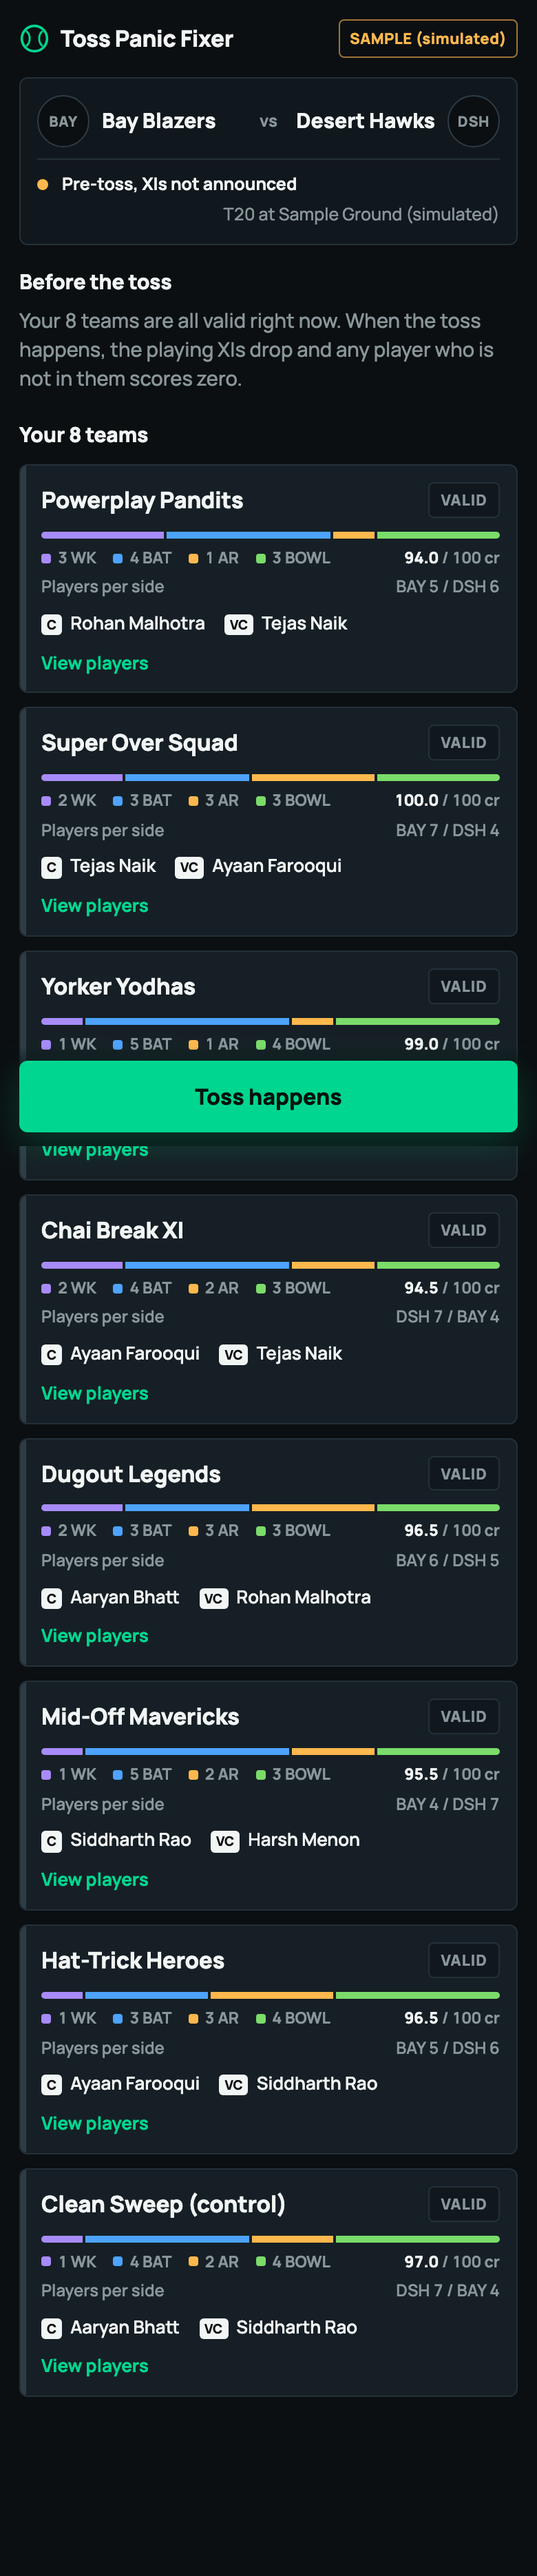
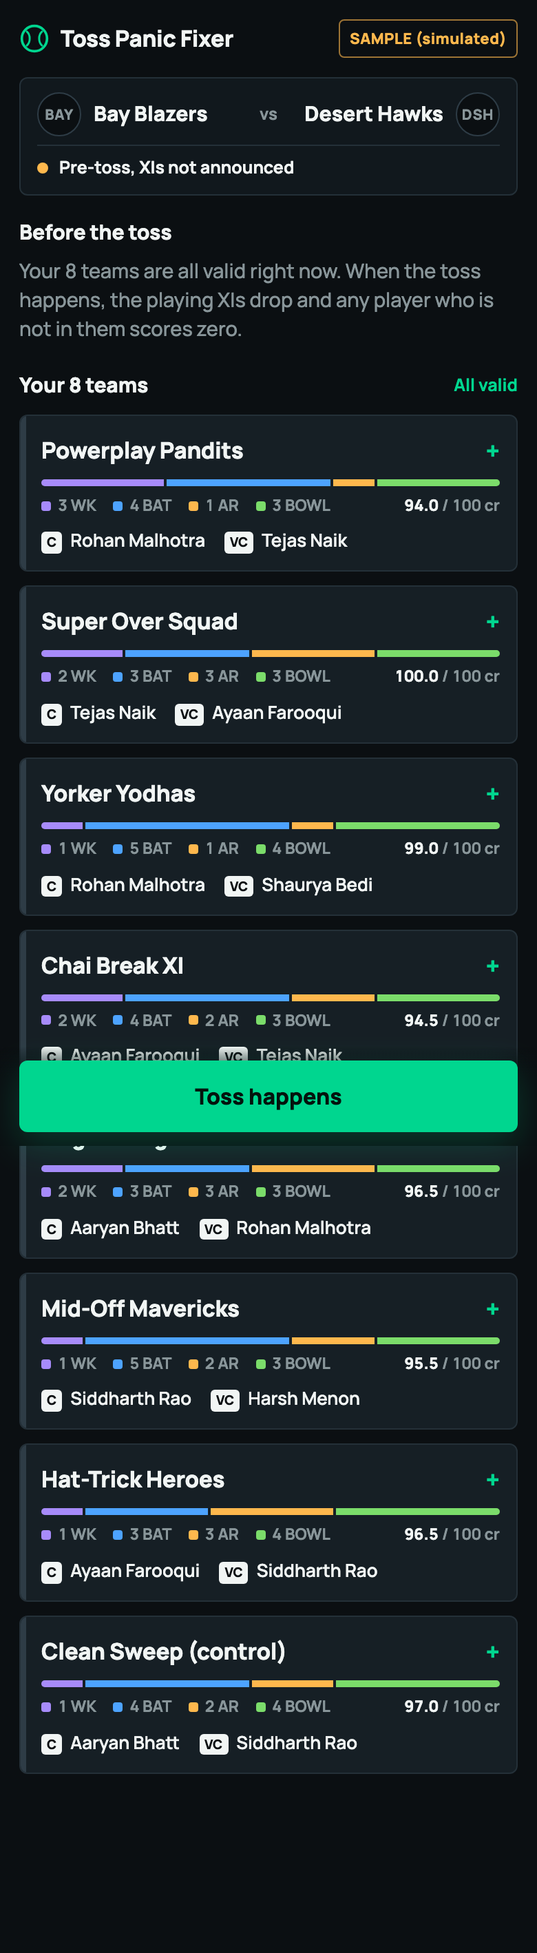
UI second pass: results-first layout, compact broken and fixed cards, collapsed XIs and Ask on phones, quieter colour use, sentence-case badges

diff --git a/src/style.css b/src/style.css
@@ -26,14 +26,14 @@ button:focus-visible, summary:focus-visible, input:focus-visible { outline: 2px 
 .sample { font-weight: 800; font-size: 11px; letter-spacing: .02em; color: var(--warn); border: 1px solid color-mix(in srgb, var(--warn) 60%, transparent); border-radius: 4px; padding: 5px 7px; white-space: nowrap; }
 .sample.sm { font-size: 10px; padding: 3px 5px; }
 
-.match { display: grid; grid-template-columns: 1fr auto 1fr; align-items: center; gap: 8px 10px; background: var(--bg2); border: 1px solid var(--line); border-radius: var(--r); padding: 12px; }
+.match { display: grid; grid-template-columns: 1fr auto 1fr; align-items: center; gap: 6px 10px; background: var(--bg2); border: 1px solid var(--line); border-radius: var(--r); padding: 10px 12px; }
 .tm { display: flex; align-items: center; gap: 9px; min-width: 0; }
 .tm.r { justify-content: flex-end; text-align: right; }
 .tm b { font-size: 15px; font-weight: 800; line-height: 1.15; }
-.crest { flex: none; display: grid; place-items: center; width: 38px; height: 38px; border-radius: 50%; border: 1.5px solid var(--line2); font: 800 10.5px var(--font); font-style: normal; letter-spacing: .03em; color: var(--muted); background: var(--bg); }
+.crest { flex: none; display: grid; place-items: center; width: 32px; height: 32px; border-radius: 50%; border: 1.5px solid var(--line2); font: 800 10.5px var(--font); font-style: normal; letter-spacing: .03em; color: var(--muted); background: var(--bg); }
 .vs { color: var(--muted); font-weight: 700; font-size: 12px; }
-.meta { grid-column: 1 / -1; display: flex; flex-wrap: wrap; align-items: center; gap: 4px 10px; border-top: 1px solid var(--line); padding-top: 9px; font-size: 12.5px; font-weight: 700; }
-.meta .venue { margin-left: auto; color: var(--muted); font-weight: 500; }
+.meta { grid-column: 1 / -1; display: flex; align-items: center; gap: 8px; border-top: 1px solid var(--line); padding-top: 7px; font-size: 12.5px; font-weight: 700; }
+.meta .venue { display: none; color: var(--muted); font-weight: 500; }
 .stat-dot { width: 8px; height: 8px; border-radius: 50%; background: var(--warn); }
 .stat-dot.toss { background: var(--accent); } .stat-dot.played { background: var(--muted); }
 
@@ -57,11 +57,11 @@ aside > section, aside > .bar { margin-bottom: 12px; }
 .impact .cell:last-child { border-right: 0; }
 .impact .cell b { display: block; font-size: 26px; font-weight: 800; line-height: 1.05; }
 .impact .cell span { font-size: 11.5px; color: var(--muted); font-weight: 600; line-height: 1.2; display: block; margin-top: 2px; }
-.impact .warn { color: var(--warn); } .impact .bad { color: var(--danger); }
+.impact .cell b { color: var(--ink); }
 
 /* toss news + XI */
-.news { margin-top: 12px; background: var(--bg2); border: 1px solid var(--line); border-radius: var(--r); overflow: hidden; }
-.lower { padding: 11px 14px; background: var(--accent); color: #04130d; font-weight: 600; }
+.news { margin-top: 10px; background: var(--bg2); border: 1px solid var(--line); border-radius: var(--r); overflow: hidden; }
+.lower { padding: 12px 14px; border-left: 4px solid var(--accent); font-weight: 600; font-size: 15px; }
 .lower b { font-weight: 800; }
 .notes { padding: 8px 14px 2px; }
 .notes li { position: relative; padding: 3px 0 3px 12px; color: var(--warn); font-size: 13.5px; font-weight: 600; }
@@ -94,7 +94,7 @@ details[open] > summary::after { content: "−"; }
 .pl .sub { grid-column: 2; display: flex; align-items: center; gap: 5px; margin-top: 1px; }
 .pl .cr { color: var(--muted); font-weight: 700; font-size: 11.5px; margin-right: auto; }
 .pl .cv { flex: none; font-size: 9px; font-weight: 800; line-height: 1; padding: 3px 4px; border-radius: 3px; background: var(--ink); color: var(--bg); }
-.pl .tg { flex: none; text-decoration: none; font-size: 9px; font-weight: 800; letter-spacing: .04em; text-transform: uppercase; padding: 2px 4px; border-radius: 3px; }
+.pl .tg { flex: none; text-decoration: none; font-size: 10.5px; font-weight: 800; padding: 1px 5px; border-radius: 3px; }
 .tg.out { background: var(--danger); color: #1a0405; }
 .tg.in { background: var(--accent); color: #04130d; }
 .pl.out { background: color-mix(in srgb, var(--danger) 9%, var(--bg2)); border-color: color-mix(in srgb, var(--danger) 45%, var(--line)); border-left-color: var(--danger); }
@@ -109,7 +109,7 @@ details[open] > summary::after { content: "−"; }
 .team.broken::before { background: var(--danger); } .team.fine::before, .team.fixed::before { background: var(--accent); }
 .team > header { display: flex; align-items: center; gap: 6px; flex-wrap: wrap; }
 .team h3 { font-size: 16.5px; font-weight: 800; letter-spacing: -.01em; margin-right: auto; }
-.st { font-size: 11px; font-weight: 800; letter-spacing: .05em; text-transform: uppercase; padding: 4px 8px; border-radius: 4px; }
+.st { font-size: 12px; font-weight: 800; padding: 3px 8px; border-radius: 4px; }
 .st.ok { background: var(--accent); color: #04130d; }
 .st.bad { background: var(--danger); color: #1a0405; }
 .st.warn { background: var(--warn); color: #231500; }
@@ -138,19 +138,19 @@ details[open] > summary::after { content: "−"; }
 .opts button[aria-selected="true"] small { color: var(--accent); }
 
 .swaps { display: grid; gap: 6px; margin-top: 4px; }
-.swap { display: grid; grid-template-columns: 1fr 16px 1fr; align-items: center; gap: 6px; padding: 7px 8px; background: var(--bg2); border-radius: 4px; font-size: 13px; }
+.swap { display: grid; grid-template-columns: 1fr 16px 1fr; align-items: start; gap: 2px 6px; padding: 8px; background: var(--bg2); border-radius: 4px; font-size: 13px; }
 .swap .from, .swap .to { display: flex; align-items: center; gap: 6px; min-width: 0; }
-.swap s { color: #ff8d93; font-weight: 500; overflow: hidden; text-overflow: ellipsis; white-space: nowrap; }
-.swap .to b { color: var(--accent); font-weight: 800; overflow: hidden; text-overflow: ellipsis; white-space: nowrap; }
+.swap s { color: #ff8d93; font-weight: 500; line-height: 1.25; }
+.swap .to b { color: var(--ink); font-weight: 800; line-height: 1.25; }
 .swap .arr { width: 16px; height: 10px; color: var(--muted); }
-.swap em { grid-column: 3; font-style: normal; font-size: 11.5px; font-weight: 700; color: var(--muted); margin: -1px 0 0 40px; }
+.swap em { grid-column: 3; font-style: normal; font-size: 11.5px; font-weight: 700; color: var(--muted); margin: -3px 0 0 40px; }
 .swap em .up { color: var(--warn); } .swap em .down { color: var(--accent); }
 .lchange { display: flex; flex-wrap: wrap; gap: 4px 14px; margin-top: 8px; font-size: 13px; }
 .lchange b { display: inline-block; margin-right: 6px; font-size: 9.5px; font-weight: 800; padding: 3px 4px; border-radius: 3px; background: var(--ink); color: var(--bg); line-height: 1; }
 .lchange s { color: #ff8d93; } .lchange strong { color: var(--accent); }
 .lchange.keep { color: var(--muted); }
 .why { margin-top: 10px; padding: 10px 12px; background: var(--bg2); border-left: 3px solid var(--accent); border-radius: 0 4px 4px 0; color: #d4dedb; font-size: 14px; line-height: 1.5; }
-.why .src { display: inline-block; margin-right: 8px; font-size: 9.5px; font-weight: 800; letter-spacing: .06em; text-transform: uppercase; padding: 3px 5px; border-radius: 3px; background: var(--line2); color: var(--muted); vertical-align: 1px; }
+.why .src { display: inline-block; margin-right: 8px; font-size: 10.5px; font-weight: 800; padding: 3px 5px; border-radius: 3px; background: var(--line2); color: var(--muted); vertical-align: 1px; }
 .team footer { display: flex; align-items: center; justify-content: space-between; gap: 12px; margin-top: 12px; }
 .left { color: var(--muted); font-weight: 700; font-size: 13px; } .left b { color: var(--ink); font-size: 18px; }
 .apply { background: var(--accent); color: #04130d; border: 0; border-radius: var(--r); font-weight: 800; font-size: 15px; padding: 0 20px; min-height: 46px; cursor: pointer; flex: 1; max-width: 220px; }
@@ -187,11 +187,12 @@ details[open] > summary::after { content: "−"; }
 
 /* AI controls */
 .lang-row { display: flex; gap: 8px; align-items: center; flex-wrap: wrap; }
-.aibtn { background: transparent; color: var(--accent); border: 1px solid var(--accent); border-radius: var(--r); padding: 0 12px; font-weight: 800; font-size: 13px; min-height: 40px; cursor: pointer; }
-.aibtn:disabled { opacity: .6; cursor: default; }
+.aibtn { background: transparent; color: var(--ink); border: 1px solid var(--line2); border-radius: var(--r); padding: 0 12px; font-weight: 700; font-size: 13px; min-height: 40px; cursor: pointer; }
+.aibtn:not(:disabled):hover { border-color: var(--accent); }
+.aibtn:disabled { color: var(--accent); border-color: color-mix(in srgb, var(--accent) 45%, transparent); cursor: default; }
 .lang { display: inline-flex; border: 1px solid var(--line2); border-radius: var(--r); overflow: hidden; }
 .lang button { background: transparent; color: var(--muted); border: 0; padding: 0 12px; font-weight: 700; font-size: 13px; cursor: pointer; min-height: 40px; }
-.lang button[aria-pressed="true"] { background: var(--ink); color: var(--bg); }
+.lang button[aria-pressed="true"] { background: var(--line2); color: var(--ink); }
 .aierr { flex-basis: 100%; margin-top: 6px; font-size: 12.5px; color: var(--warn); }
 .ask { background: var(--bg2); border: 1px solid var(--line); border-radius: var(--r); padding: 12px 14px; }
 .ask form { display: flex; gap: 8px; margin-top: 10px; }
@@ -237,3 +238,25 @@ details[open] > summary::after { content: "−"; }
   .team { margin: 0; }
 }
 @media (min-width: 1300px) { .shell { grid-template-columns: 420px 1fr; } .bar { width: 420px; } }
+
+/* second pass */
+.line { display: flex; justify-content: space-between; align-items: baseline; gap: 10px; }
+.line .cl { font-weight: 600; font-size: 12.5px; } .line .cl b { color: var(--ink); }
+.more.keep { margin-top: 8px; } .more.keep summary { border-top: 0; min-height: 34px; }
+.more.keep summary::after { content: "+"; } .more.keep[open] summary::after { content: "−"; }
+.lchange .stay { color: var(--muted); } .lchange .stay b { background: var(--line2); color: var(--ink); }
+.allvalid { font-size: 12.5px; font-weight: 700; color: var(--accent); }
+.team.pre summary { padding: 12px 12px 12px 15px; } .team.pre .comp { margin-top: 8px; }
+.team.pre .sm-h::after { content: "+"; margin-left: auto; font-weight: 800; font-size: 18px; color: var(--accent); }
+.team.pre details[open] .sm-h::after { content: "−"; }
+.swap .arr { margin-top: 3px; }
+details.ask { background: var(--bg2); border: 1px solid var(--line); border-radius: var(--r); padding: 0 14px; }
+details.ask > summary { cursor: pointer; list-style: none; display: flex; align-items: center; justify-content: space-between; gap: 10px; min-height: 50px; }
+details.ask > summary::-webkit-details-marker { display: none; }
+details.ask > summary::after { content: "+"; font-weight: 800; color: var(--accent); }
+details.ask[open] > summary::after { content: "−"; }
+details.ask > summary span { margin-left: auto; color: var(--muted); font-size: 12px; font-weight: 600; }
+details.ask > summary h2 { font-size: 14px; }
+details.ask[open] { padding-bottom: 12px; }
+details.ask form { margin-top: 0; }
+@media (max-width: 899px) { details.ask > summary span { display: none; } }

diff --git a/src/app.js b/src/app.js
@@ -17,7 +17,8 @@ const state = {
   ask: { q: '', loading: false, answer: '', tools: [], error: '' },
   coin: false, // toss reveal overlay is showing
   fresh: false, // XIs are animating in
-  xiOpen: true,
+  xiOpen: window.innerWidth >= 900,
+  askOpen: window.innerWidth >= 900,
 };
 
 const $ = (s, el = document) => el.querySelector(s);
@@ -45,14 +46,12 @@ function pills(ids, { captain = null, vc = null, outSet = null, newIds = [] } = 
 }
 
 /** Role split bar + credits + side split for a set of 11 players. */
-function composition(ids, { sidesToo = false } = {}) {
+function composition(ids, { legend = true } = {}) {
   const s = teamStats(ids, ctx.pool);
   const bar = ROLES.filter((r) => s.roles[r]).map((r) => `<i class="seg r-${r}" style="flex:${s.roles[r]}"></i>`).join('');
-  const legend = ROLES.map((r) => `<span class="lg r-${r}"><i></i>${s.roles[r]} ${r}</span>`).join('');
-  const split = Object.entries(s.sides).map(([k, n]) => `${k} ${n}`).join(' / ');
+  const legendHtml = ROLES.map((r) => `<span class="lg r-${r}"><i></i>${s.roles[r]} ${r}</span>`).join('');
   return `<div class="comp"><div class="bar-roles" role="img" aria-label="Role split">${bar}</div>
-    <div class="legend">${legend}<span class="cl"><b>${fmt(s.credits)}</b> / 100 cr</span></div>
-    ${sidesToo ? `<div class="facts"><span>Players per side</span><span>${split}</span></div>` : ''}</div>`;
+    ${legend ? `<div class="legend">${legendHtml}<span class="cl"><b>${fmt(s.credits)}</b> / 100 cr</span></div>` : ''}</div>`;
 }
 
 function leaders(team, { captain = team.captain, vc = team.vc, outSet = null } = {}) {
@@ -66,7 +65,7 @@ function swapRows(opt) {
   return `<ul class="swaps">${opt.swaps.map((s) => {
     const o = P(s.out), i = P(s.in);
     const d = Math.round((i.credits - o.credits) * 10) / 10;
-    return `<li class="swap"><span class="from r-${o.role}"><i class="rl">${o.role}</i><s>${esc(o.name)}</s></span>
+    return `<li class="swap"><span class="from"><s>${esc(o.name)}</s></span>
       <svg class="arr" viewBox="0 0 20 12" aria-hidden="true"><path d="M1 6h16m-5-5 5 5-5 5" fill="none" stroke="currentColor" stroke-width="1.6" stroke-linecap="round" stroke-linejoin="round"/></svg>
       <span class="to r-${i.role}"><i class="rl">${i.role}</i><b>${esc(i.name)}</b></span>
       <em class="num">${i.credits} cr <span class="${d > 0 ? 'up' : d < 0 ? 'down' : ''}">${d > 0 ? '+' : d < 0 ? '−' : '±'}${Math.abs(d)}</span></em></li>`;
@@ -74,10 +73,10 @@ function swapRows(opt) {
 }
 
 function leaderChange(team, opt) {
-  const bits = [];
-  if (opt.captainChanged) bits.push(`<span><b>C</b><s>${esc(P(team.captain).name)}</s> to <strong>${esc(P(opt.captain).name)}</strong></span>`);
-  if (opt.vcChanged) bits.push(`<span><b>VC</b><s>${esc(P(team.vc).name)}</s> to <strong>${esc(P(opt.vc).name)}</strong></span>`);
-  return bits.length ? `<div class="lchange">${bits.join('')}</div>` : `<div class="lchange keep">Captain and vice-captain stay as they are</div>`;
+  const one = (tag, was, now) => (was === now
+    ? `<span class="stay"><b>${tag}</b>${esc(P(now).name)} stays</span>`
+    : `<span><b>${tag}</b><s>${esc(P(was).name)}</s> to <strong>${esc(P(now).name)}</strong></span>`);
+  return `<div class="lchange">${one('C', team.captain, opt.captain)}${one('VC', team.vc, opt.vc)}</div>`;
 }
 
 function explanation(team, fix, opt) {
@@ -102,7 +101,7 @@ function teamCard(team) {
   if (!fix.broken) {
     return `<article class="team fine"><header><h3>${esc(team.name)}</h3><span class="st ok">Fine</span></header>
       <p class="line">All 11 players are in the playing XI. Nothing to fix.</p>
-      ${scoreRow(team)}${composition(team.players)}${leaders(team)}
+      ${scoreRow(team)}${composition(team.players, { legend: false })}${leaders(team)}
       <details class="more"><summary>View players</summary>${pills(team.players)}</details></article>`;
   }
   const outSet = new Set(fix.out);
@@ -110,25 +109,28 @@ function teamCard(team) {
   const applied = state.applied.get(team.id);
   if (applied) {
     return `<article class="team fixed"><header><h3>${esc(team.name)}</h3><span class="st ok">Fixed</span></header>
-      ${scoreRow(team)}${composition(applied.players)}${leaders(team, { captain: applied.captain, vc: applied.vc })}
-      ${swapRows(applied)}${leaderChange(team, applied)}
-      <details class="more"><summary>View new XI</summary>${pills(applied.players, { captain: applied.captain, vc: applied.vc, newIds: applied.ins })}</details>
+      <p class="line"><span><b>${applied.swaps.length}</b> ${applied.swaps.length === 1 ? 'swap' : 'swaps'} applied</span><span class="cl"><b>${fmt(applied.stats.credits)}</b> / 100 cr</span></p>
+      ${scoreRow(team)}${composition(applied.players, { legend: false })}${leaderChange(team, applied)}
+      <details class="more"><summary>Swaps and new XI</summary>${swapRows(applied)}${pills(applied.players, { captain: applied.captain, vc: applied.vc, newIds: applied.ins })}</details>
       ${played ? '' : `<button class="ghost" data-undo="${team.id}">Undo fix</button>`}</article>`;
   }
   if (fix.impossible) {
     return `<article class="team broken"><header><h3>${esc(team.name)}</h3><span class="st bad">Broken</span>${alert}</header>
-      <p class="line"><b>${fix.out.length}</b> of 11 players are out</p>
-      ${scoreRow(team)}${composition(team.players)}${leaders(team, { outSet })}${pills(team.players, { captain: team.captain, vc: team.vc, outSet })}
+      <p class="line"><span><b>${fix.out.length}</b> of 11 players are out</span></p>
+      ${scoreRow(team)}${composition(team.players, { legend: false })}${pills(fix.out, { captain: team.captain, vc: team.vc, outSet })}
+      <details class="more keep"><summary>${team.players.length - fix.out.length} still playing</summary>${pills(team.players.filter((id) => !outSet.has(id)), { captain: team.captain, vc: team.vc })}</details>
       <div class="nofix"><b>No valid fix</b><p>${esc(noFixText(team, fix, ctx, state.lang))}</p></div></article>`;
   }
   const idx = state.pick.get(team.id) ?? 0;
   const opt = fix.options[idx];
   const x = explanation(team, fix, opt);
+  const stay = team.players.filter((id) => !outSet.has(id));
   return `<article class="team broken" data-team="${team.id}">
     <header><h3>${esc(team.name)}</h3><span class="st bad">Broken</span>${alert}</header>
-    <p class="line"><b>${fix.out.length}</b> of 11 players are out</p>
-    ${scoreRow(team)}${composition(team.players)}${leaders(team, { outSet })}
-    ${pills(team.players, { captain: team.captain, vc: team.vc, outSet })}
+    <p class="line"><span><b>${fix.out.length}</b> of 11 players are out</span><span class="cl"><b>${fmt(teamStats(team.players, ctx.pool).credits)}</b> / 100 cr</span></p>
+    ${scoreRow(team)}${composition(team.players, { legend: false })}
+    ${pills(fix.out, { captain: team.captain, vc: team.vc, outSet })}
+    <details class="more keep"><summary>${stay.length} still playing</summary>${pills(stay, { captain: team.captain, vc: team.vc })}</details>
     <div class="opts" role="tablist" aria-label="Fix options for ${esc(team.name)}">
       ${fix.options.map((o, i) => `<button role="tab" aria-selected="${i === idx}" data-opt="${team.id}:${i}"><span>${i === 0 ? 'Best fix' : 'Option ' + (i + 1)}</span><small class="num">+${fmt(o.projGain)} proj</small></button>`).join('')}
     </div>
@@ -208,12 +210,13 @@ function langToggle() {
 function askBox() {
   const a = state.ask;
   const chips = ['Who should captain Powerplay Pandits?', 'Can I swap Mohit Saxena for Siddharth Rao in t1?', 'Which of my teams has no valid fix?'];
-  return `<section class="ask"><h2>Ask the Fixer</h2>
+  const open = state.askOpen || a.q || a.answer || a.error || a.loading;
+  return `<details class="ask" ${open ? 'open' : ''}><summary><h2>Ask the Fixer</h2><span>Check any swap against the real rules</span></summary>
     <form data-ask><input name="q" maxlength="300" placeholder="e.g. Is swapping Tejas Naik for Harsh Menon valid in t1?" value="${esc(a.q)}" aria-label="Your question" autocomplete="off">
       <button class="apply" ${a.loading ? 'disabled' : ''}>${a.loading ? 'Checking…' : 'Ask'}</button></form>
     <div class="chips">${chips.map((c) => `<button type="button" data-chip="${esc(c)}">${esc(c)}</button>`).join('')}</div>
     ${a.answer ? `<div class="answer"><p>${esc(a.answer)}</p><small>Checked with the real engine: ${a.tools.length ? a.tools.map((t) => `<code>${esc(t)}</code>`).join(' ') : 'no tools used'}. Projections use pre-match form only.</small></div>` : ''}
-    ${a.error ? `<p class="aierr" role="status">${esc(a.error)}</p>` : ''}</section>`;
+    ${a.error ? `<p class="aierr" role="status">${esc(a.error)}</p>` : ''}</details>`;
 }
 
 /* ---------- full time ---------- */
@@ -245,8 +248,8 @@ function footerBar() {
 }
 
 function preCard(t) {
-  return `<article class="team pre"><details><summary><span class="sm-h"><h3>${esc(t.name)}</h3><span class="st neutral">Valid</span></span>
-    ${composition(t.players, { sidesToo: true })}${leaders(t)}<span class="expand">View players</span></summary>${pills(t.players, { captain: t.captain, vc: t.vc })}</details></article>`;
+  return `<article class="team pre"><details><summary><span class="sm-h"><h3>${esc(t.name)}</h3></span>
+    ${composition(t.players)}${leaders(t)}</summary>${pills(t.players, { captain: t.captain, vc: t.vc })}</details></article>`;
 }
 
 function render() {
@@ -256,7 +259,7 @@ function render() {
   if (state.phase === 'pre') {
     side = `<section class="intro"><h2>Before the toss</h2>
       <p>Your ${teams.length} teams are all valid right now. When the toss happens, the playing XIs drop and any player who is not in them scores zero.</p></section>`;
-    main = `<div class="list-h"><h2>Your ${teams.length} teams</h2></div>${teams.map(preCard).join('')}`;
+    main = `<div class="list-h"><h2>Your ${teams.length} teams</h2><span class="allvalid">All valid</span></div>${teams.map(preCard).join('')}`;
   } else if (state.phase === 'toss') {
     side = `${impact()}${tossNews()}${askBox()}`;
     main = `<div class="list-h"><h2>Your teams</h2>${langToggle()}</div>
@@ -338,7 +341,10 @@ document.addEventListener('click', (e) => {
 
 document.addEventListener('click', (e) => { if (e.target.closest('#coin')) endCoin(); });
 // <details> does not bubble 'toggle'; capture it so the open state survives re-renders.
-document.addEventListener('toggle', (e) => { if (e.target.matches('details.xi')) state.xiOpen = e.target.open; }, true);
+document.addEventListener('toggle', (e) => {
+  if (e.target.matches('details.xi')) state.xiOpen = e.target.open;
+  if (e.target.matches('details.ask')) state.askOpen = e.target.open;
+}, true);
 
 render();
 // Exposed for tests and for debugging in the console.
